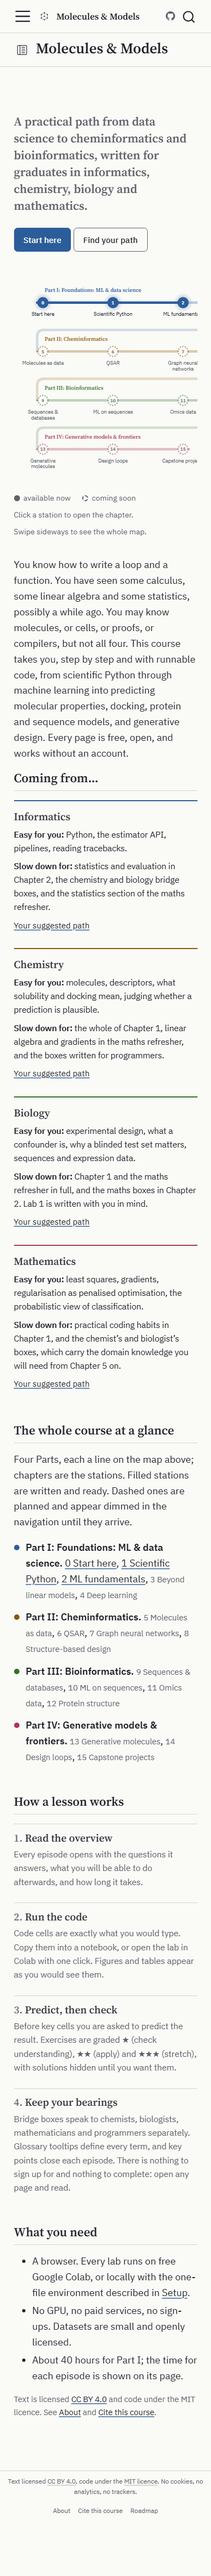
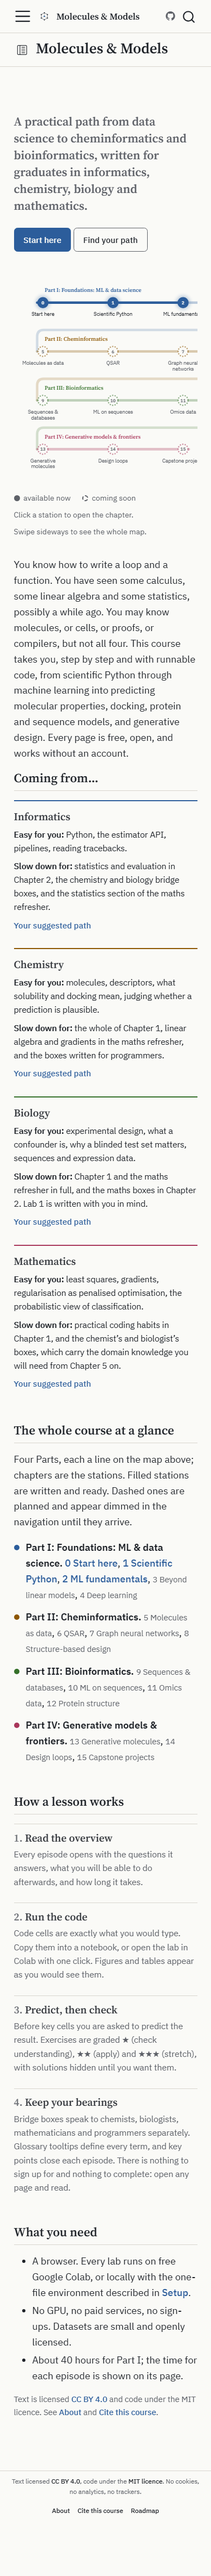
No underlines anywhere; fix the glitchy effects
Underlines: links, breadcrumbs, glossary terms, the schedule table, the
roadmap labels, footer links and the navbar tabs no longer have any line
beneath them. Links in running text are the Part's accent colour at
medium weight (colour plus weight, so not colour alone); links in
headings keep the heading's look; the active navbar tab is marked by
colour and weight. axe's link-in-text-block rule passes.

Effects audit (measured frame by frame) and fixes:
- roadmap hover dimmed the other lines and flickered 7 times as the
  pointer crossed gaps between lines: dimming removed (station glow stays)
- interpolate-size was set on :root and reached Bootstrap's sidebar
  collapse: now scoped to the sliding <details> only
- switching theme fired 34 staggered colour transitions: transitions are
  paused for two frames during the switch, now 0
- the reading line sat 5 px under the active-tab bar and read as a stray
  underline: removed
- the roadmap intro replayed on every return to the home page: it now
  plays once per visit (sessionStorage flag, works without JS too)
- card hover glow only where hover exists (no sticky states on touch)

diff --git a/assets/scss/_mm-rules.scss b/assets/scss/_mm-rules.scss
@@ -51,8 +51,18 @@ h1, h2, h3, h4, h5, h6, .h1, .h2, .h3 {
 }
 p { margin-bottom: 1.05rem; }
 li { margin-bottom: .25rem; }
-a { color: var(--mm-link); text-decoration: underline; text-decoration-color: color-mix(in srgb, var(--mm-accent) 70%, transparent); text-decoration-thickness: 1.5px; text-underline-offset: .16em; transition: text-decoration-color var(--mm-transition); }
-a:hover { color: var(--mm-link); text-decoration-color: var(--mm-accent); }
+// Links are never underlined. In running text a link is the Part's accent colour at medium weight
+// (colour plus weight, so it never relies on colour alone); headings, navigation, breadcrumbs,
+// buttons and glossary terms style their own links.
+a, a:hover, a:focus, a:focus-visible, abbr[title], .quarto-notebook-link:hover, code a:hover { text-decoration: none; }
+a { color: var(--mm-link); transition: color var(--mm-transition); }
+a:hover { color: var(--mm-link); }
+#quarto-document-content a:not([class]) { color: var(--mm-accent); font-weight: 500; }
+#quarto-document-content a:not([class]):hover { color: var(--mm-text); }
+#quarto-document-content :is(h1, h2, h3, h4, h5, h6) a:not([class]) { color: inherit; font-weight: inherit; }
+#quarto-document-content :is(h1, h2, h3, h4, h5, h6) a:not([class]):hover { color: var(--mm-accent); }
+#quarto-document-content .mm-crumb a, #quarto-document-content .mm-meta a { color: var(--mm-text-muted); font-weight: 400; }
+#quarto-document-content .mm-crumb a:hover, #quarto-document-content .mm-meta a:hover { color: var(--mm-text); }
 code, kbd, pre, samp, .sourceCode { font-family: var(--mm-font-mono); font-feature-settings: "liga" 0, "calt" 0; font-variant-ligatures: none; }
 p code:not(.sourceCode), li code:not(.sourceCode), td code:not(.sourceCode), h2 code, h3 code, dd code, .mm-callout-body code:not(.sourceCode) {
   background: var(--mm-surface-2);
@@ -157,20 +167,14 @@ table.dataframe tbody th { color: var(--mm-text-muted); font-weight: 400; text-a
     font-size: .93rem; font-weight: 500; text-decoration: none;
   }
   .navbar .navbar-nav .nav-link:hover { color: var(--mm-text); }
-  .navbar .navbar-nav .nav-link::after { content: ""; position: absolute; left: .7rem; right: .7rem; bottom: -1px; height: 2px; background: transparent; }
-  .navbar .navbar-nav .nav-link.active { color: var(--mm-accent-1); }
-  .navbar .navbar-nav .nav-link.active::after { background: var(--mm-accent-1); }
+  .navbar .navbar-nav .nav-link.active { color: var(--mm-accent-1); font-weight: 600; }
   .navbar .navbar-nav .nav-link[href*="part-2-"].active { color: var(--mm-accent-2); }
-  .navbar .navbar-nav .nav-link[href*="part-2-"].active::after { background: var(--mm-accent-2); }
   .navbar .navbar-nav .nav-link[href*="part-3-"].active { color: var(--mm-accent-3); }
-  .navbar .navbar-nav .nav-link[href*="part-3-"].active::after { background: var(--mm-accent-3); }
   .navbar .navbar-nav .nav-link[href*="part-4-"].active { color: var(--mm-accent-4); }
-  .navbar .navbar-nav .nav-link[href*="part-4-"].active::after { background: var(--mm-accent-4); }
 }
 @media (min-width: 992px) and (max-width: 1199.98px) {
   .navbar .navbar-collapse::before { margin: 0 .6rem 0 1rem; }
   .navbar .navbar-nav .nav-link { padding: 0 .5rem; font-size: .88rem; }
-  .navbar .navbar-nav .nav-link::after { left: .5rem; right: .5rem; }
 }
 // part tabs: collapsed menu on narrow screens; brand, theme switch and icons stay on one line
 @media (max-width: 991.98px) {
@@ -254,7 +258,7 @@ table.dataframe tbody th { color: var(--mm-text-muted); font-weight: 400; text-a
 .mm-title { margin: .5rem 0 2rem; }
 .mm-crumb { display: flex; flex-wrap: wrap; gap: .4rem; align-items: center; font-size: .88rem; color: var(--mm-text-muted); margin-bottom: .8rem; }
 .mm-crumb a { color: var(--mm-text-muted); text-decoration: none; }
-.mm-crumb a:hover { color: var(--mm-text); text-decoration: underline; }
+.mm-crumb a:hover { color: var(--mm-text); }
 .mm-crumb .mm-part-dot { width: 8px; height: 8px; border-radius: 50%; background: var(--mm-accent); display: inline-block; }
 .mm-title h1 { font-size: 2.3rem; margin: 0 0 .8rem; line-height: 1.12; }
 .mm-title .mm-ep-label { font-family: var(--mm-font-heading); font-weight: 400; color: var(--mm-accent); margin-right: .5rem; }
@@ -432,7 +436,7 @@ details.mm-callout > .mm-callout-body { padding-top: .5rem; }
 .mm-term-wrap { position: relative; display: inline; }
 // glossary terms read as plain text; the definition appears on hover or keyboard focus
 a.mm-term { color: inherit; text-decoration: none; }
-a.mm-term:hover, a.mm-term:focus-visible { text-decoration: underline; text-decoration-color: var(--mm-text-muted); text-decoration-thickness: 1px; text-underline-offset: .18em; }
+a.mm-term:hover, a.mm-term:focus-visible { color: var(--mm-accent); }
 .mm-term-tip {
   display: block; visibility: hidden; opacity: 0; transform: translateY(4px);
   transition: opacity .16s ease, transform .16s ease, visibility 0s linear .16s;
@@ -473,7 +477,7 @@ a.mm-term:hover + .mm-term-tip, a.mm-term:focus-visible + .mm-term-tip, .mm-term
 .mm-pager .mm-pager-empty { border-top: 1px dashed var(--mm-border); }
 @media (max-width: 575.98px) { .mm-pager { grid-template-columns: 1fr; } .mm-pager .mm-pager-next { text-align: left; } .mm-pager .mm-pager-next .mm-pager-dir { justify-content: flex-start; } }
 .mm-meta { display: flex; flex-wrap: wrap; gap: .4rem 1.25rem; font-size: .84rem; color: var(--mm-text-muted); }
-.mm-meta a { color: var(--mm-text-muted); display: inline-flex; align-items: center; gap: .3rem; text-decoration-color: var(--mm-border); }
+.mm-meta a { color: var(--mm-text-muted); display: inline-flex; align-items: center; gap: .3rem; }
 .mm-meta a:hover { color: var(--mm-text); }
 .mm-meta svg { width: 13px; height: 13px; }
 
@@ -494,8 +498,8 @@ table.mm-schedule { width: 100%; font-size: .93rem; border-collapse: collapse; m
 table.mm-schedule th { text-align: left; color: var(--mm-text-muted); font-weight: 500; border-bottom: 1px solid var(--mm-text-muted); padding: .45rem .6rem; }
 table.mm-schedule td { padding: .65rem .6rem; border-bottom: 1px solid var(--mm-border); vertical-align: top; }
 table.mm-schedule td.mm-sched-time { color: var(--mm-text-muted); white-space: nowrap; font-variant-numeric: tabular-nums; }
-table.mm-schedule td.mm-sched-ep a { font-family: var(--mm-font-heading); font-weight: 600; font-size: 1.02rem; text-decoration: none; }
-table.mm-schedule td.mm-sched-ep a:hover { text-decoration: underline; }
+#quarto-document-content table.mm-schedule td.mm-sched-ep a { font-family: var(--mm-font-heading); font-weight: 600; font-size: 1.02rem; color: var(--mm-text); }
+#quarto-document-content table.mm-schedule td.mm-sched-ep a:hover { color: var(--mm-accent); }
 table.mm-schedule td.mm-sched-ep .mm-ep-num { margin-right: .35rem; }
 table.mm-schedule td.mm-sched-q { color: var(--mm-text-muted); font-size: .9rem; }
 table.mm-schedule ul { margin: 0; padding-left: 1rem; }
@@ -561,12 +565,9 @@ table.mm-schedule tr.mm-sched-lab td { background: color-mix(in srgb, var(--mm-a
 .mm-metro .mm-station.soon .mm-station-num, .mm-metro .mm-station.soon .mm-station-label { fill: var(--mm-text-muted); }
 .mm-metro .mm-station:hover .mm-station-dot, .mm-metro .mm-station:focus-visible .mm-station-dot { transform: scale(1.2); stroke-opacity: 1; }
 .mm-metro .mm-station:hover .mm-station-halo, .mm-metro .mm-station:focus-visible .mm-station-halo { opacity: .65; transform: scale(1.35); }
-.mm-metro .mm-station:hover .mm-station-label, .mm-metro .mm-station:focus-visible .mm-station-label { fill: var(--mm-text); text-decoration: underline; }
+.mm-metro .mm-station:hover .mm-station-label, .mm-metro .mm-station:focus-visible .mm-station-label { fill: var(--mm-text); }
 .mm-metro .mm-line-label { font-family: var(--mm-font-heading); font-size: 13.5px; font-weight: 600; }
 .mm-metro .mm-metro-spark { fill: #FFFFFF; }
-// point at one Part and the other lines step back
-.mm-metro .mm-part { transition: opacity .3s ease; }
-.mm-metro svg:has(.mm-part:hover) .mm-part:not(:hover) { opacity: .32; }
 
 @keyframes mm-draw { from { stroke-dasharray: 1; stroke-dashoffset: 1; } to { stroke-dasharray: 1; stroke-dashoffset: 0; } }
 @keyframes mm-fade { from { opacity: 0; } }
@@ -579,6 +580,7 @@ table.mm-schedule tr.mm-sched-lab td { background: color-mix(in srgb, var(--mm-a
 .mm-metro .mm-station.built .mm-station-dot, .mm-metro .mm-station.built .mm-station-halo {
   animation: mm-switch-on .55s cubic-bezier(.3, .7, .3, 1) backwards; animation-delay: calc(.2s + var(--i) * .28s + var(--j) * .12s);
 }
+html.mm-no-intro .mm-metro *, html.mm-no-intro .mm-home-hero > * { animation: none !important; }
 .mm-metro-hint { display: none !important; }
 @media (max-width: 700px) { .mm-metro-hint { display: inline-flex !important; } }
 .mm-metro-legend { display: flex; flex-wrap: wrap; gap: .5rem 1.25rem; font-size: .84rem; color: var(--mm-text-muted); margin-bottom: 1.5rem; }
@@ -599,8 +601,8 @@ table.mm-schedule tr.mm-sched-lab td { background: color-mix(in srgb, var(--mm-a
 // Misc Quarto overrides
 // ---------------------------------------------------------------------------
 .nav-footer { background: var(--mm-bg); border-top: 1px solid var(--mm-border); color: var(--mm-text-muted); font-size: .85rem; }
-.nav-footer a { color: var(--mm-text-muted); text-decoration-color: var(--mm-border); }
-.nav-footer a:hover { color: var(--mm-text); }
+.nav-footer a { color: var(--mm-text); font-weight: 500; }
+.nav-footer a:hover { color: var(--mm-accent); }
 .quarto-title-block .quarto-title-meta { display: none; }
 .anchorjs-link { color: var(--mm-text-muted) !important; text-decoration: none; }
 #quarto-search-results, .aa-DetachedOverlay, .aa-Panel { --bs-body-bg: var(--mm-surface); }
@@ -652,7 +654,7 @@ table.mm-schedule tr.mm-sched-lab td { background: color-mix(in srgb, var(--mm-a
 
 // solutions, proofs, deep dives and quiz options slide open and shut
 @supports selector(::details-content) {
-  :root { interpolate-size: allow-keywords; }
+  details.mm-callout, details.mm-quiz-option { interpolate-size: allow-keywords; }
   details.mm-callout::details-content, details.mm-quiz-option::details-content {
     block-size: 0; overflow-y: clip;
     transition: block-size .3s cubic-bezier(.2, .7, .2, 1), content-visibility .3s allow-discrete;
@@ -668,8 +670,9 @@ table.mm-schedule tr.mm-sched-lab td { background: color-mix(in srgb, var(--mm-a
   transition: transform .35s cubic-bezier(.2, .7, .2, 1), box-shadow .35s ease;
 }
 .mm-audience .mm-card::before { top: -2px; }
-.mm-card:hover::before, .mm-card:focus-within::before {
-  transform: scaleX(1); box-shadow: 0 0 12px 0 color-mix(in srgb, var(--mm-c, var(--mm-accent)) 65%, transparent);
+.mm-card:focus-within::before { transform: scaleX(1); }
+@media (hover: hover) {
+  .mm-card:hover::before { transform: scaleX(1); box-shadow: 0 0 12px 0 color-mix(in srgb, var(--mm-c, var(--mm-accent)) 65%, transparent); }
 }
 
 // quiz: a short pulse of colour when an answer opens
@@ -683,19 +686,8 @@ table.mm-schedule tr.mm-sched-lab td { background: color-mix(in srgb, var(--mm-a
 .mm-btn-primary { transition: background var(--mm-transition), box-shadow .25s ease; }
 .mm-btn-primary:hover, .mm-btn-primary:focus-visible { box-shadow: 0 0 0 4px color-mix(in srgb, var(--mm-accent-1) 28%, transparent); }
 
-// navbar: an underline grows under the tab you point at
-@media (min-width: 992px) {
-  .navbar .navbar-nav .nav-link::after { transform: scaleX(0); transition: transform .25s cubic-bezier(.2, .7, .2, 1); }
-  .navbar .navbar-nav .nav-link:not(.active):hover::after { transform: scaleX(1); background: var(--mm-border); }
-  .navbar .navbar-nav .nav-link.active::after { transform: scaleX(1); }
-}
 
-// long pages: a thin line under the header shows how far down the page you are
-@supports (animation-timeline: scroll()) {
-  @keyframes mm-read { from { transform: scaleX(0); } to { transform: scaleX(1); } }
-  body:has(#TOC) #quarto-header::after {
-    content: ""; position: absolute; left: 0; right: 0; bottom: -1px; height: 2px; pointer-events: none;
-    background: var(--mm-accent); transform-origin: 0 50%; transform: scaleX(0);
-    animation: mm-read linear both; animation-timeline: scroll(root block);
-  }
-}
+
+// While the theme switches (mm.js adds the class for two frames) nothing transitions, so the whole
+// page changes colour at once instead of element by element.
+html.mm-theme-switching *, html.mm-theme-switching *::before, html.mm-theme-switching *::after { transition: none !important; }

diff --git a/assets/js/mm.js b/assets/js/mm.js
@@ -1,6 +1,7 @@
 /* Molecules & Models — progressive enhancements.
  * Everything here is optional: the site is fully readable without it.
- * The only state kept is the theme preference (localStorage key mm-theme, wrapped in try/catch).
+ * The only state kept is the theme preference (localStorage key mm-theme) and, for this browser tab only,
+ * whether the roadmap intro has played (sessionStorage key mm-intro-seen); both wrapped in try/catch.
  * Nothing about what you have read is recorded, here or anywhere else.
  */
 (function () {
@@ -32,7 +33,10 @@
     var dark = wantsDark(pref);
     root.setAttribute("data-mm-theme", dark ? "dark" : "light");
     if (typeof window.quartoToggleColorScheme === "function" && isDark() !== dark) {
+      // switch without transitions so the whole page changes colour at once
+      root.classList.add("mm-theme-switching");
       window.quartoToggleColorScheme();
+      requestAnimationFrame(function () { requestAnimationFrame(function () { root.classList.remove("mm-theme-switching"); }); });
     }
     document.querySelectorAll("[data-mm-theme-btn]").forEach(function (b) {
       b.setAttribute("aria-checked", String(b.getAttribute("data-mm-theme-btn") === pref));
@@ -129,7 +133,13 @@
     });
   }
 
+  function rememberIntro() {
+    // the roadmap's draw-in plays on the first visit to the home page in a session only
+    if (document.querySelector(".mm-metro")) { try { sessionStorage.setItem("mm-intro-seen", "1"); } catch (e) {} }
+  }
+
   document.addEventListener("DOMContentLoaded", function () {
+    rememberIntro();
     mountHeaderControls();
     solutionsToggle();
     quizzes();

diff --git a/assets/html/head.html b/assets/html/head.html
@@ -8,6 +8,7 @@
     var dark = t === 'dark' || (t === 'auto' && window.matchMedia('(prefers-color-scheme: dark)').matches);
     root.setAttribute('data-mm-theme', dark ? 'dark' : 'light');
     root.setAttribute('data-mm-theme-pref', t);
+    if (sessionStorage.getItem('mm-intro-seen')) root.classList.add('mm-no-intro');
   } catch (e) {
     root.setAttribute('data-mm-theme', 'dark');
   }

diff --git a/AUTHORING.md b/AUTHORING.md
@@ -237,7 +237,7 @@ an `index.qmd` with the "soon" banner, 4–6 topic bullets and 3 planned outcome
 | Shortcodes | `_extensions/mm/term.lua`, `glossary.lua` | glossary tooltips and page (`glossary.yml` parsed by pandoc) |
 | Title block | `_extensions/mm/partials/title-block.html` | episode / lab / plain title blocks from metadata |
 | Post-render | `scripts/post_render.py` | sidebar decoration (numbers, times, check circles, "soon"), part accent on `<html>`, skip link, a11y fixes, CDN removal, guards Quarto's nav script against SVG links |
-| Theme | `brand/*.yml`, `assets/scss/*.scss`, `assets/highlight/*.theme` | colours as CSS custom properties in `_tokens.scss`; sizes and spacing in `_shared-defaults.scss`; every component rule in `_mm-rules.scss`. `mm-light.scss` and `mm-dark.scss` hold only their colours and both import the shared files: Quarto layers the dark sheet over the light one in dark mode, so a rule that lived only in the light file would lose to Bootstrap's defaults re-emitted by the dark sheet. Motion (the roadmap's draw-in and travelling light, sliding solutions, tooltip fades, card and quiz highlights, the reading line under the header) is CSS and SVG only, needs no JavaScript, and is switched off entirely under `prefers-reduced-motion`; every element's resting style is its final state, so nothing is hidden when animation does not run. Never put `url(...)` references to in-page SVG ids in the SCSS: Quarto treats them as files and the render fails. Design rules: colour is semantic only (one accent per Part, one per callout kind), callouts are a thin coloured rule rather than a box, headings are serif, links are ink-coloured with an accent underline, no all-caps labels. Any SCSS change needs a clean full render (`rm -rf _site && quarto render`) because the compiled CSS file name is hashed |
+| Theme | `brand/*.yml`, `assets/scss/*.scss`, `assets/highlight/*.theme` | colours as CSS custom properties in `_tokens.scss`; sizes and spacing in `_shared-defaults.scss`; every component rule in `_mm-rules.scss`. `mm-light.scss` and `mm-dark.scss` hold only their colours and both import the shared files: Quarto layers the dark sheet over the light one in dark mode, so a rule that lived only in the light file would lose to Bootstrap's defaults re-emitted by the dark sheet. Motion (the roadmap's draw-in, played once per visit, and its travelling light; sliding solutions; tooltip fades; card and quiz highlights) is CSS and SVG only, needs no JavaScript, and is switched off entirely under `prefers-reduced-motion`; every element's resting style is its final state, so nothing is hidden when animation does not run. Never put `url(...)` references to in-page SVG ids in the SCSS: Quarto treats them as files and the render fails. Design rules: colour is semantic only (one accent per Part, one per callout kind), callouts are a thin coloured rule rather than a box, headings are serif, nothing is underlined (links in running text are the Part's accent colour at medium weight), no all-caps labels. Any SCSS change needs a clean full render (`rm -rf _site && quarto render`) because the compiled CSS file name is hashed |
 | JS | `assets/js/mm.js` | theme switch (Dark/Light/Auto), expand-all-solutions, quiz score, long-output collapse, print expansion, `/` search |
 | Fonts | `assets/fonts/` | IBM Plex Sans, Source Serif 4, JetBrains Mono, subset with fontTools (`scripts/subset_fonts.sh`), served via `brand` typography |
 
